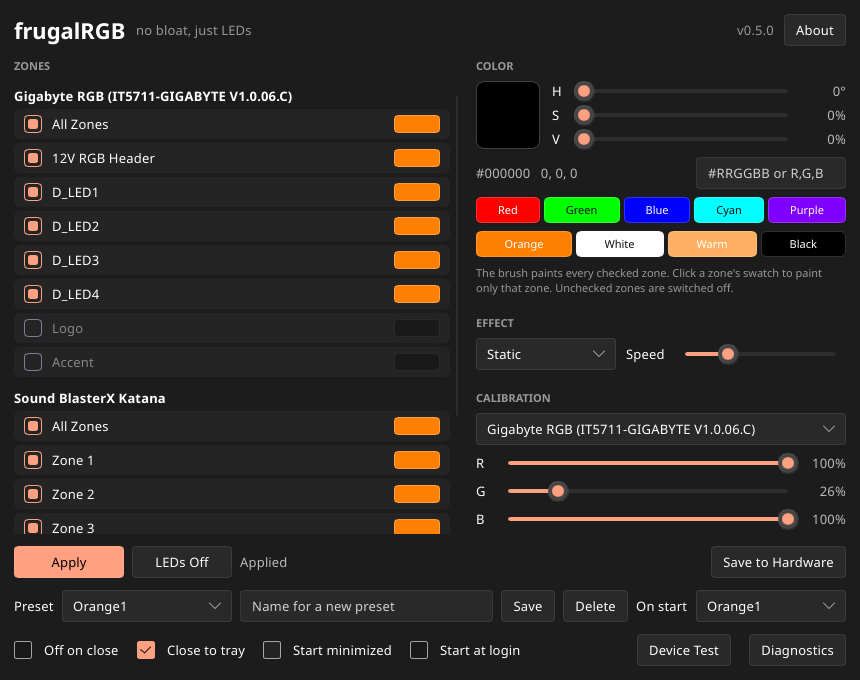
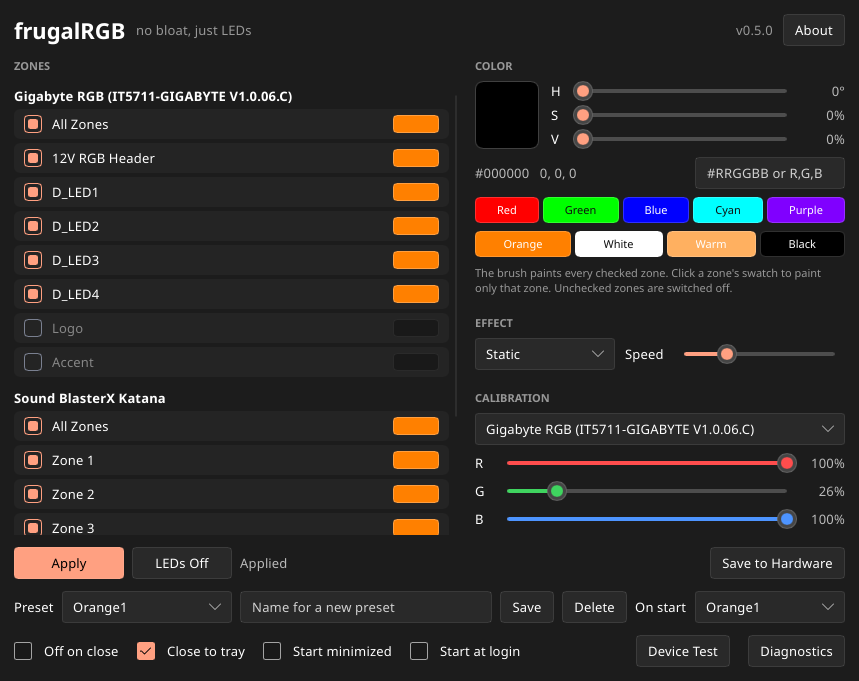
Add a color picker, and color the calibration sliders
Clicking the color preview opens a picker: a saturation and brightness
square over a hue strip, like the Pick Color dialog of 0.3.0. It moves
the same brush as the H, S and V sliders.

The R, G and B calibration sliders are drawn in red, green and blue.
The stock slider takes its color from the palette alone, so the window
now has a slider of its own, used for every slider to keep them alike.
It keeps the arrow keys.

diff --git a/README.md b/README.md
@@ -35,7 +35,7 @@ If you'd like support for your hardware, [open an issue](../../issues) and attac
 
 ## Features
 
-- Static color from the HSV sliders, the color buttons, or a typed `#RRGGBB` or `R,G,B` value.
+- Static color from the color picker (click the color preview), the HSV sliders, the color buttons, or a typed `#RRGGBB` or `R,G,B` value.
 - Breathing, color cycle, rainbow and strobe with adjustable speed. Devices that have the effect built in run it themselves. The others get frames from frugalRGB at 30 fps.
 - **Per-zone color.** Every RGB zone (Logo, Accent, D_LED1, LED 1 to 8, etc.) is its own row with its own color and checkbox. An unchecked zone is switched off, even when "All Zones" is checked. Uncheck every zone of a device and frugalRGB leaves that device alone.
 - Per-device calibration with three sliders that scale red, green and blue, for LEDs whose white is off.
